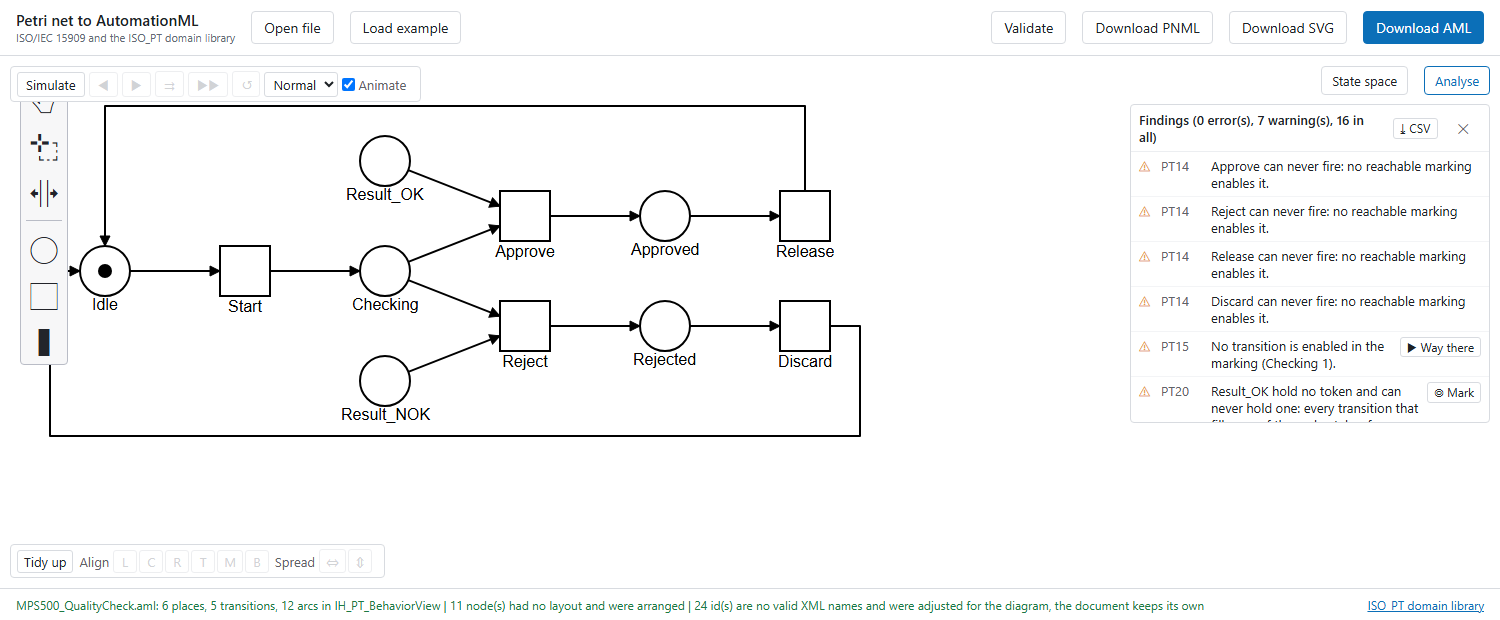
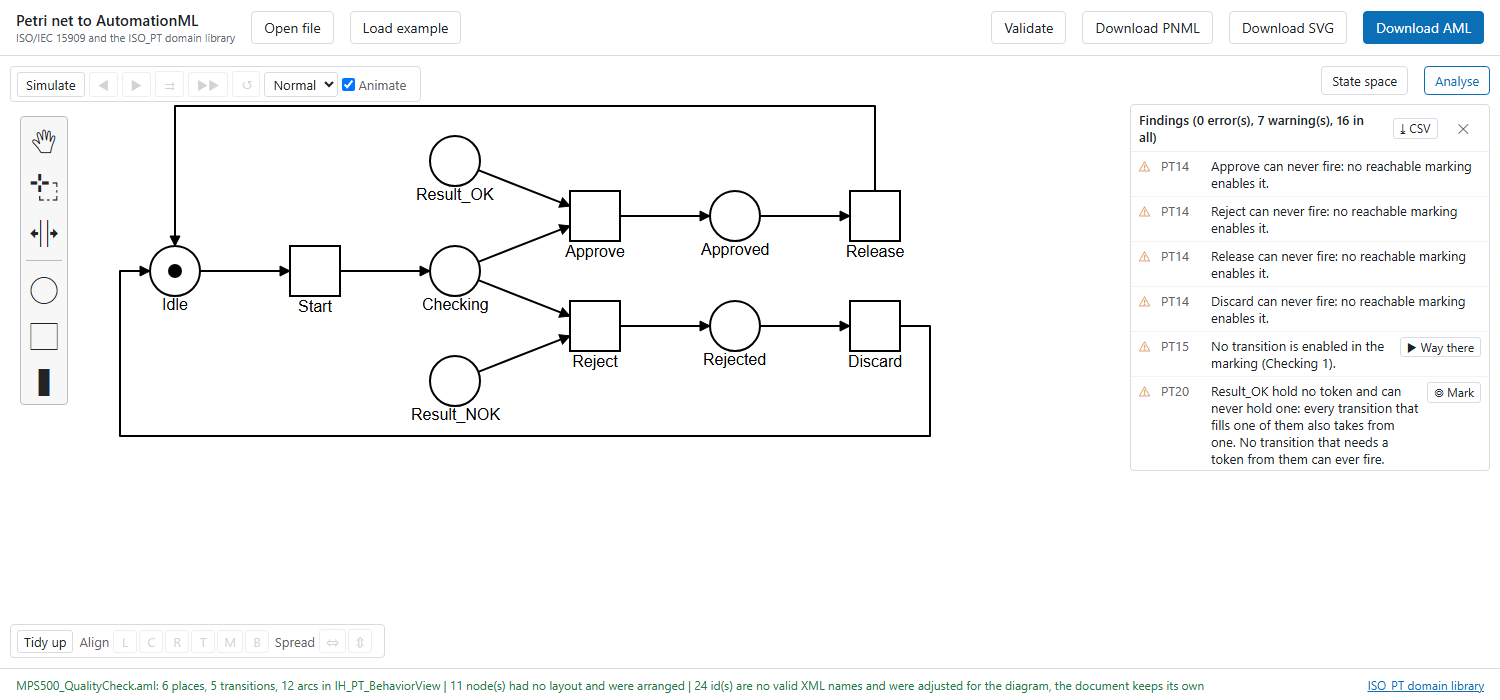
docs: add the restart step to the install section and retake the screenshot

diff --git a/README.md b/README.md
@@ -42,9 +42,12 @@ To use the plugin without building it:
    put it in a folder of its own.
 3. Start the editor, open the PlugIn Manager and add that folder as a package
    source.
-4. Select the source, find "Aml.Editor.Plugin.PetriNet" under Available and
-   install it. An update comes through the Updates tab.
-5. The plugin opens as the tab "AMLPetriNet" once a document is open. It needs
+4. Select the source, find AMLPetriNet (package `Aml.Editor.Plugin.PetriNet`)
+   under Available and install it. An update comes through the Updates tab.
+5. The PlugIn Manager keeps showing "Loading an AutomationML Editor PlugIn"
+   until you confirm the message "Restart required". That message is a separate
+   window and may sit behind the editor; look for it in the taskbar.
+6. Restart the editor. The plugin appears as the tab "AMLPetriNet". It needs
    the AutomationML Editor 6.4 or later and the WebView2 runtime, which comes
    with current Windows and Edge.
 
@@ -68,9 +71,6 @@ include it. `npm ci` in `web` installs PetriNet.js from its tag on GitHub. The p
 `build/Plugins/Aml.Editor.Plugin.PetriNet/<configuration>/`.
 
 ## Plugin
-
-Add the package folder as a source in the PlugIn Manager of the AutomationML
-Editor and install the plugin from there. It opens as the tab "AMLPetriNet".
 
 - The canvas shows a net of the open document; a list switches between nets.
 - **Simulate** fires the net on the canvas: enabled transitions are marked, a
